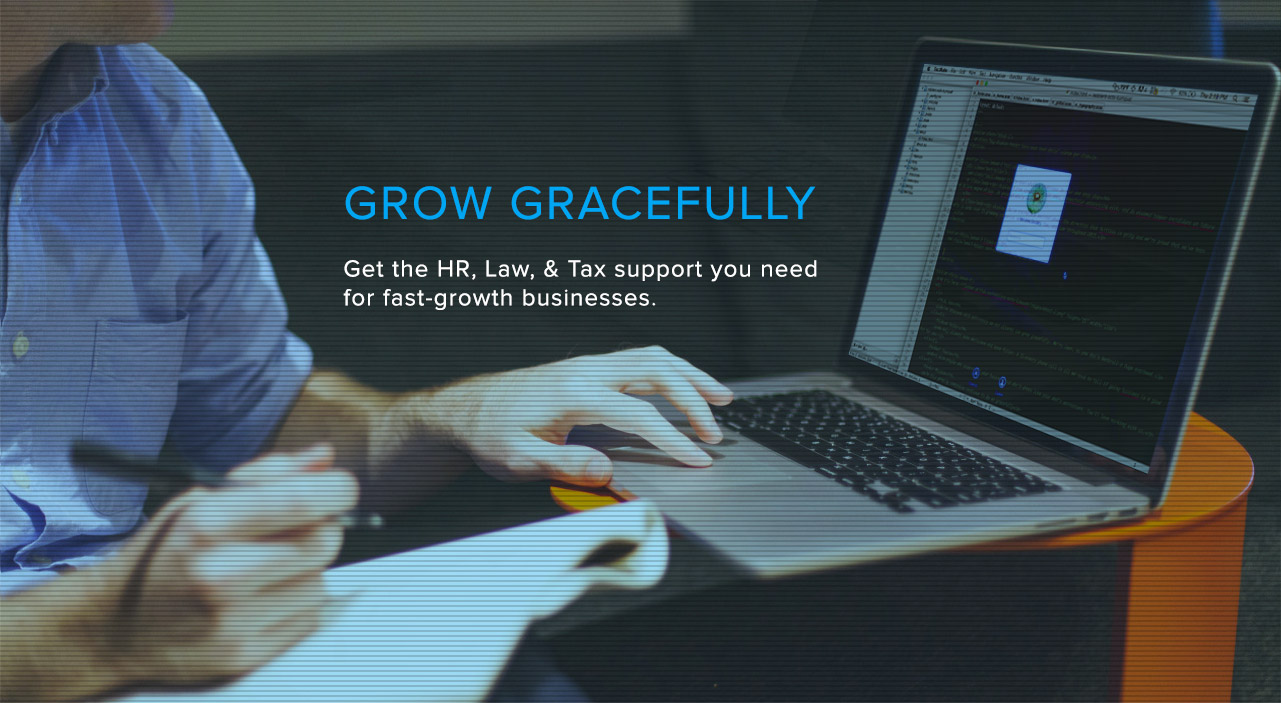
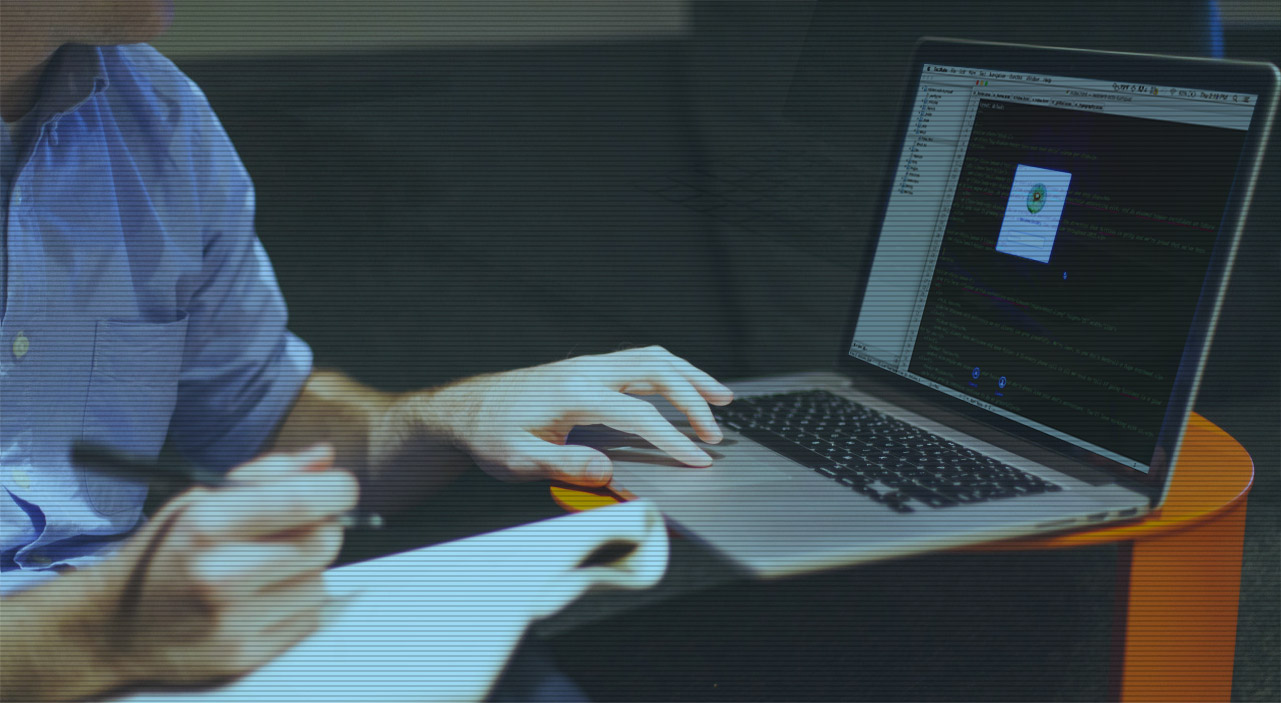
responsive work, hero

Changed region(s): [[0.2498, 0.3585, 0.6557, 0.4481], [0.2498, 0.2688, 0.6557, 0.3286]]

diff --git a/_site/index.html b/_site/index.html
@@ -39,7 +39,10 @@
 
   <body>
     
-    <header>
+    <a href="/" class="header-logo-mobile">
+  <img src="http://flanban.github.io/redolent-octo-kumquat/images/suitless-logo.png" height="" width="">
+</a>
+<header>
   <a href="/" class="header-logo">
     <img src="http://flanban.github.io/redolent-octo-kumquat/images/suitless-logo.png" height="" width="">
   </a>
@@ -59,18 +62,15 @@
 
     
     <section class='home-1 hero'>
-  <h2>Grow Gracefully</h2>
-  <h3 class="">Get the HR, Law, & Tax support you need for fast-growth businesses.</h3>
+  <div class="text-holder">
+    <h2>Grow Gracefully</h2>
+    <h3 class="">Get the HR, Law, & Tax support you need for fast-growth businesses.</h3>
+  </div>
   <img class="down-button" onclick="$.scrollTo( '.home-2', 300 ); return false;" src="http://flanban.github.io/redolent-octo-kumquat/images/down-button-home.png" />
 </section>
 
 <section class='home-2'>
   <div class="left">
-
-  	<section class="si-icons si-icons-default">
-  		<span class="si-icon si-icon-hamburger-cross" data-icon-name="hamburgerCross"></span>
-  	</section>
-    
     <h4 class="header-1">Are you ready to get suitless?</h4>
     <p>Instead of wasting time with HR issues, lawyers, or accountants, our clients get the optimal amount of back office support to allow founders and decision makers to remove the distractions that they could—but shouldn’t—be wasting their time on.</p>
   </div>

diff --git a/index.html b/index.html
@@ -3,18 +3,15 @@ layout: default
 ---
 
 <section class='home-1 hero'>
-  <h2>Grow Gracefully</h2>
-  <h3 class="">Get the HR, Law, & Tax support you need for fast-growth businesses.</h3>
+  <div class="text-holder">
+    <h2>Grow Gracefully</h2>
+    <h3 class="">Get the HR, Law, & Tax support you need for fast-growth businesses.</h3>
+  </div>
   <img class="down-button" onclick="$.scrollTo( '.home-2', 300 ); return false;" src="http://flanban.github.io/redolent-octo-kumquat/images/down-button-home.png" />
 </section>
 
 <section class='home-2'>
   <div class="left">
-
-  	<section class="si-icons si-icons-default">
-  		<span class="si-icon si-icon-hamburger-cross" data-icon-name="hamburgerCross"></span>
-  	</section>
-    
     <h4 class="header-1">Are you ready to get suitless?</h4>
     <p>Instead of wasting time with HR issues, lawyers, or accountants, our clients get the optimal amount of back office support to allow founders and decision makers to remove the distractions that they could—but shouldn’t—be wasting their time on.</p>
   </div>

diff --git a/_sass/_header.scss b/_sass/_header.scss
@@ -38,9 +38,9 @@ body > header {
       @media(max-width: 768px) {
         height: 40px;
         margin-top:24px;
+        opacity:0;
       }
     }
-
   } 
   .si-icons { // mobile hamburger
     display: none;
@@ -117,5 +117,16 @@ body > header {
       }
     } 
   }
-  
+}
+.header-logo-mobile {
+    height:96px;
+    top: 22px;
+    position: absolute;
+    left: 30px;
+    display:inline-block;
+    z-index:90;
+    
+    @media(min-width: 768px) {
+      display:none;
+    }
 }

diff --git a/_sass/_home.scss b/_sass/_home.scss
@@ -20,6 +20,21 @@ body { // need to namespace this
   background-position: center;
   background-repeat: no-repeat;
   padding-bottom:0px;
+  .text-holder {
+    position:absolute;
+    max-width:420px;
+    top:160px;
+    left:43%;
+    margin-left: -220px;
+    h2 {
+      color:#00a6f3;      
+      font-size:48px;
+    }
+    h3 {
+      color:#fff;
+      font-size:20px;
+    }
+  }
   .down-button {
     position:absolute;
     bottom:0;

diff --git a/_includes/header.html b/_includes/header.html
@@ -1,3 +1,6 @@
+<a href="{{ site.baseurl }}/" class="header-logo-mobile">
+  <img src="http://flanban.github.io/redolent-octo-kumquat/images/suitless-logo.png" height="" width="">
+</a>
 <header>
   <a href="{{ site.baseurl }}/" class="header-logo">
     <img src="http://flanban.github.io/redolent-octo-kumquat/images/suitless-logo.png" height="" width="">
